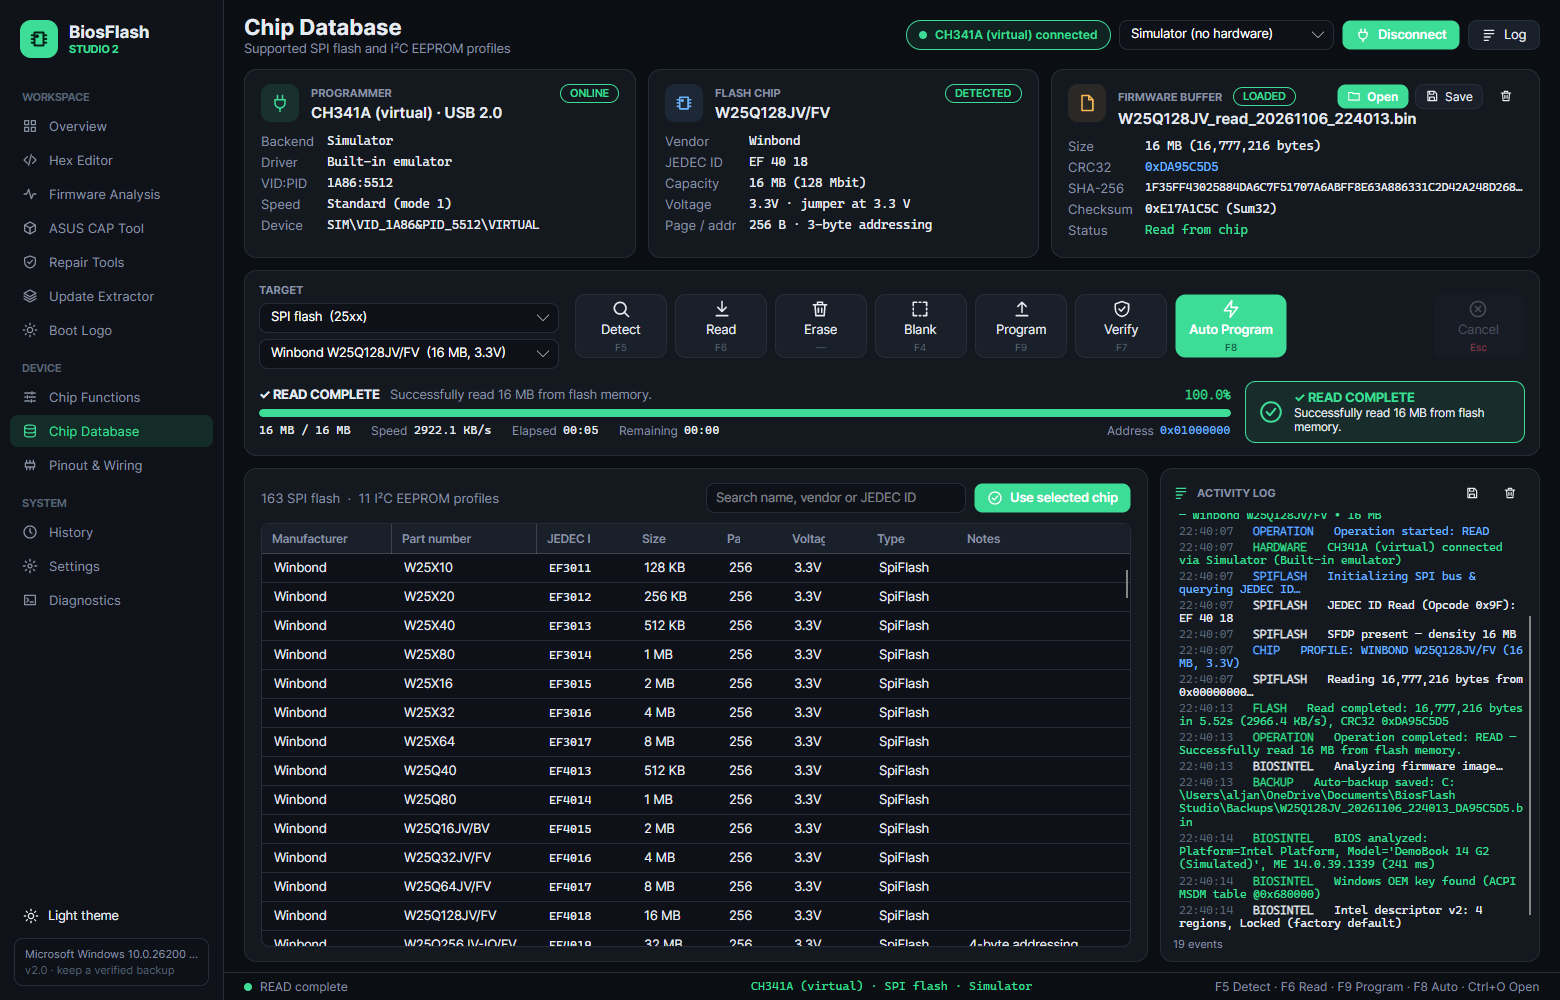
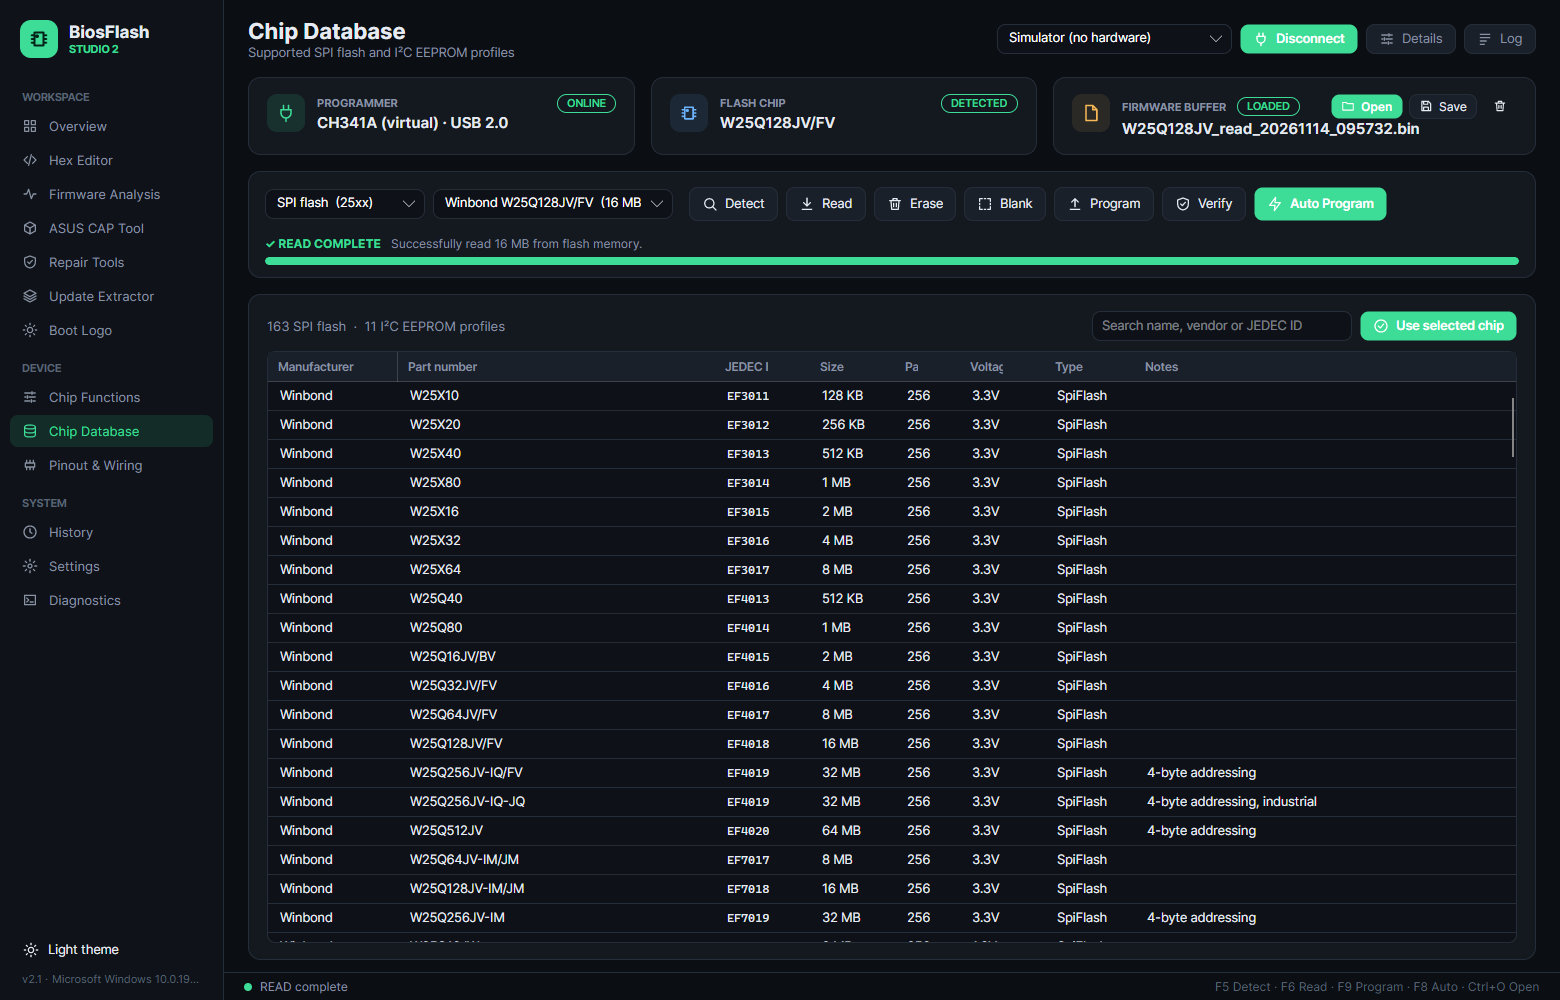
They're all taken in demo mode at 1560×1000, the same size as before. linux-debian.png and linux-diagnostics.png are still the old ones. They have to be taken on Linux, so they show the previous version of the app.
Removed: "Building from source", "Testing", "Project layout", and the .NET, Avalonia and self-test badges.
Moved, not deleted: those sections now live in docs/BUILDING.md. The README doesn't link to it.
Added: a download badge at the top that always points to the latest release.
Download & install: each system now has a direct download link for its v2.1.0 file.
Programmer dashboard text: updated for the new layout (the Details button, the operation bar and the Log button).

diff --git a/README.md b/README.md
@@ -14,9 +14,10 @@
   <img alt="Windows" src="https://img.shields.io/badge/Windows-10%20%7C%2011-0078D4">
   <img alt="Debian / Ubuntu" src="https://img.shields.io/badge/Debian%20%7C%20Ubuntu-.deb-A81D33">
   <img alt="Fedora" src="https://img.shields.io/badge/Fedora%20%7C%20RHEL-.rpm-51A2DA">
-  <img alt=".NET 10" src="https://img.shields.io/badge/.NET-10-512BD4">
-  <img alt="Avalonia UI" src="https://img.shields.io/badge/UI-Avalonia%2011-8B44AC">
-  <img alt="Self-tests" src="https://img.shields.io/badge/self--tests-114%20passing-3DDC97">
+</p>
+
+<p align="center">
+  <a href="https://github.com/SpeedGamer21/biosflash-studio/releases/latest"><img alt="Download the latest release" src="https://img.shields.io/github/v/release/SpeedGamer21/biosflash-studio?label=download&color=3DDC97"></a>
 </p>
 
 <p align="center">
@@ -35,9 +36,6 @@
   - [History & settings](#11-history--settings) · [Diagnostics & Linux](#12-diagnostics--linux) · [Light & dark themes](#13-light--dark-themes)
 - [Download & install](#download--install)
 - [Connecting a CH341A](#connecting-a-ch341a)
-- [Building from source](#building-from-source)
-- [Testing](#testing)
-- [Project layout](#project-layout)
 - [Safety](#safety)
 - [License](#license)
 
@@ -60,11 +58,11 @@
 
 <img src="docs/screenshots/overview.png" alt="Programmer dashboard" width="900">
 
-- **Status cards** for the programmer (backend, driver, speed), the detected chip (vendor, JEDEC ID, capacity, voltage, addressing) and the firmware buffer (size, CRC32, SHA-256, checksum).
-- **Operation deck:** Detect, Read, Erase, Blank check, Program, Verify and **Auto Program** (unprotect → erase → blank → program → verify). Each has a keyboard shortcut.
+- **Status cards** for the programmer, the detected chip and the firmware buffer. They stay compact; the **Details** button expands them to show the backend, driver and speed, the chip's vendor, JEDEC ID, capacity, voltage and addressing, and the buffer's size, CRC32, SHA-256 and checksum.
+- **Operation bar:** Detect, Read, Erase, Blank check, Program, Verify and **Auto Program** (unprotect → erase → blank → program → verify). Each has a keyboard shortcut.
 - **Live progress** with speed, elapsed and remaining time, current address, and a colour-coded result badge.
 - **Overview page:** platform, ME version, BIOS vendor and version, descriptor status, GbE MAC, the **DMI table** (brand, model, serial, UUID, SKU, board), the **Windows OEM key** with copy/export, and a flash-layout bar.
-- **Activity log** with timestamps and colour levels, saved per session. It can be collapsed.
+- **Activity log** with timestamps and colour levels, saved per session. Open or close it with the **Log** button.
 
 ### 2. Hex editor
 
@@ -216,16 +214,17 @@ Graphite/mint dark theme and paper/emerald light theme, switchable from the side
 
 ## Download & install
 
-Get the file for your system from the **[Releases](../../releases)** page.
+**Latest version: 2.1.0.** Click your system to download, or browse every version on the **[Releases](https://github.com/SpeedGamer21/biosflash-studio/releases)** page.
 
-| System | File | Install |
+| System | Download | Install |
 |---|---|---|
-| **Windows 10/11 (x64)** | `BiosFlashStudio-2.1.0-win-x64-setup.exe` | Run the installer. You can install for the current user (no admin) or for all users. It adds a Start-menu entry and a *demo mode* shortcut |
-| **Debian / Ubuntu / Mint (x64)** | `biosflash-studio_2.1.0_amd64.deb` | `sudo apt install ./biosflash-studio_2.1.0_amd64.deb` |
-| **Debian / Raspberry Pi OS (ARM64)** | `biosflash-studio_2.1.0_arm64.deb` | `sudo apt install ./biosflash-studio_2.1.0_arm64.deb` |
-| **Fedora / RHEL / Rocky (x64)** | `biosflash-studio-2.1.0-1.x86_64.rpm` | `sudo dnf install ./biosflash-studio-2.1.0-1.x86_64.rpm` |
-| **Fedora (ARM64)** | `biosflash-studio-2.1.0-1.aarch64.rpm` | `sudo dnf install ./biosflash-studio-2.1.0-1.aarch64.rpm` |
-| **Any Linux (portable)** | `biosflash-studio-2.1.0-linux-x64.tar.gz` (or `-arm64`) | Unpack, then run `sudo sh install.sh`, or just `./BiosFlashStudio` |
+| **Windows 10/11 (x64)** | [⬇ BiosFlashStudio-2.1.0-win-x64-setup.exe](https://github.com/SpeedGamer21/biosflash-studio/releases/download/v2.1.0/BiosFlashStudio-2.1.0-win-x64-setup.exe) | Run the installer. You can install for the current user (no admin) or for all users. It adds a Start-menu entry and a *demo mode* shortcut |
+| **Debian / Ubuntu / Mint (x64)** | [⬇ biosflash-studio_2.1.0_amd64.deb](https://github.com/SpeedGamer21/biosflash-studio/releases/download/v2.1.0/biosflash-studio_2.1.0_amd64.deb) | `sudo apt install ./biosflash-studio_2.1.0_amd64.deb` |
+| **Debian / Raspberry Pi OS (ARM64)** | [⬇ biosflash-studio_2.1.0_arm64.deb](https://github.com/SpeedGamer21/biosflash-studio/releases/download/v2.1.0/biosflash-studio_2.1.0_arm64.deb) | `sudo apt install ./biosflash-studio_2.1.0_arm64.deb` |
+| **Fedora / RHEL / Rocky (x64)** | [⬇ biosflash-studio-2.1.0-1.x86_64.rpm](https://github.com/SpeedGamer21/biosflash-studio/releases/download/v2.1.0/biosflash-studio-2.1.0-1.x86_64.rpm) | `sudo dnf install ./biosflash-studio-2.1.0-1.x86_64.rpm` |
+| **Fedora (ARM64)** | [⬇ biosflash-studio-2.1.0-1.aarch64.rpm](https://github.com/SpeedGamer21/biosflash-studio/releases/download/v2.1.0/biosflash-studio-2.1.0-1.aarch64.rpm) | `sudo dnf install ./biosflash-studio-2.1.0-1.aarch64.rpm` |
+| **Any Linux x64 (portable)** | [⬇ biosflash-studio-2.1.0-linux-x64.tar.gz](https://github.com/SpeedGamer21/biosflash-studio/releases/download/v2.1.0/biosflash-studio-2.1.0-linux-x64.tar.gz) | Unpack, then run `sudo sh install.sh`, or just `./BiosFlashStudio` |
+| **Any Linux ARM64 (portable)** | [⬇ biosflash-studio-2.1.0-linux-arm64.tar.gz](https://github.com/SpeedGamer21/biosflash-studio/releases/download/v2.1.0/biosflash-studio-2.1.0-linux-arm64.tar.gz) | Unpack, then run `sudo sh install.sh`, or just `./BiosFlashStudio` |
 
 The Linux packages pull in `libusb` automatically. They also install a udev rule so the programmer works **without root**: re-plug the CH341A once after installing. More details are in [packaging/linux/README-LINUX.md](packaging/linux/README-LINUX.md).
 
@@ -239,82 +238,6 @@ To look around without a programmer, start **BiosFlash Studio (demo mode)** from
    - **Linux:** no driver is needed. libusb and the udev rule come with the package; *Diagnostics → Install udev rule* also works.
 3. **Clip on:** pin 1 goes to the red wire. For laptops, unplug AC, remove the battery and the CMOS cell.
 4. **Detect, then Read:** press **F5**, then **F6**. Every read is saved automatically to `Documents/BiosFlash Studio/Backups`.
-
-## Building from source
-
-You need the [.NET 10 SDK](https://dot.net).
-
-```sh
-# run from source
-dotnet run --project src/BiosFlashStudio.csproj               # add: -- --demo
-```
-
-**Windows**
-
-```bat
-build.bat              :: framework-dependent EXE        -> dist\
-build.bat portable     :: self-contained single EXE      -> dist\portable\
-build.bat installer    :: setup.exe (Inno Setup 6)        -> dist\installers\
-build.bat linux        :: cross-builds linux-x64/arm64 + .tar.gz
-```
-
-**Linux** (Debian/Ubuntu or Fedora)
-
-```sh
-./build.sh             # .tar.gz + .deb (dpkg-deb) + .rpm (rpmbuild) for this machine
-./build.sh arm64       # cross-build for ARM64
-# package binaries already cross-built on Windows, no .NET SDK needed:
-./packaging/linux/build-packages.sh x64 --prebuilt
-```
-
-On Fedora, install `rpm-build` to get `.rpm` output. On Debian/Ubuntu, `dpkg-deb` is already installed and `rpmbuild` comes with the `rpm` package.
-
-**Useful command-line options:**
-- `--demo`: simulator plus demo firmware.
-- `--page=N`: open a page directly.
-- `--light`: start in the light theme.
-- `--stock=<file>`: load a stock image into Repair Tools.
-- `--extract=<file>`: open a vendor update in the Update Extractor.
-- `--diag`: open Diagnostics and run the driver check.
-- A file path opens that file (`.cap` files open in the CAP tool).
-
-## Testing
-
-A headless self-test exercises everything in software. It runs these against simulated chips and a packet-level CH341A emulator:
-- the analyzer
-- the SPI and I²C drivers
-- the raw USB protocol used by the WinUSB and libusb backends
-- the capsule parser, the repair engine and the update extractor
-- the boot logo engine (UEFI parser, LZMA and EFI/Tiano rebuild, conversions)
-
-```sh
-run-tests.bat           # or ./run-tests.sh   — full run with live progress bars (91 tests)
-run-tests.bat --quick   # skips the 32 MB chip (~1.5 min)
-run-tests.bat --repair  # repair tools, update extractor and boot logo (~3 s)
-run-tests.bat --logo    # boot logo engine only (~2 s)
-```
-
-Progress is also written to `tests/SelfTest/bin/Release/net10.0/selftest.log`.
-
-> **Note:** all automated tests run against simulated hardware and synthetic firmware. Please report results with real programmers, boards and BIOS updates.
-
-## Project layout
-
-```
-src/
-  Hardware/    CH341 backends: WCH DLL, shared raw USB protocol, WinUSB + libusb transports, simulator, USB scanner
-  Flash/       chip database, SPI NOR driver, I²C EEPROM driver
-  Analysis/    firmware analyzer, UEFI volume parser, boot logo engine, capsule parser, repair engine, update extractor, demo image
-  Controls/    hex editor, region bar, usage map, pinout drawings
-  Ui/          theme palette, stroke icons, dialogs
-  Platform/    OS helpers (udev rule install, folders)
-  *.axaml      Avalonia UI
-tests/SelfTest/  headless self-test
-packaging/
-  windows/     Inno Setup script
-  linux/       .deb/.rpm/.tar.gz builder, install.sh, udev rule, desktop entry, icon
-docs/          logo and screenshots
-```
 
 ## Safety
 

diff --git a/docs/BUILDING.md b/docs/BUILDING.md
@@ -1,0 +1,80 @@
+# Building BiosFlash Studio
+
+Developer notes: building from source, running the self-tests and the project layout.
+
+## Building from source
+
+You need the [.NET 10 SDK](https://dot.net).
+
+```sh
+# run from source
+dotnet run --project src/BiosFlashStudio.csproj               # add: -- --demo
+```
+
+**Windows**
+
+```bat
+build.bat              :: framework-dependent EXE        -> dist\
+build.bat portable     :: self-contained single EXE      -> dist\portable\
+build.bat installer    :: setup.exe (Inno Setup 6)        -> dist\installers\
+build.bat linux        :: cross-builds linux-x64/arm64 + .tar.gz
+```
+
+**Linux** (Debian/Ubuntu or Fedora)
+
+```sh
+./build.sh             # .tar.gz + .deb (dpkg-deb) + .rpm (rpmbuild) for this machine
+./build.sh arm64       # cross-build for ARM64
+# package binaries already cross-built on Windows, no .NET SDK needed:
+./packaging/linux/build-packages.sh x64 --prebuilt
+```
+
+On Fedora, install `rpm-build` to get `.rpm` output. On Debian/Ubuntu, `dpkg-deb` is already installed and `rpmbuild` comes with the `rpm` package.
+
+**Useful command-line options:**
+- `--demo`: simulator plus demo firmware.
+- `--page=N`: open a page directly.
+- `--light`: start in the light theme.
+- `--stock=<file>`: load a stock image into Repair Tools.
+- `--extract=<file>`: open a vendor update in the Update Extractor.
+- `--diag`: open Diagnostics and run the driver check.
+- A file path opens that file (`.cap` files open in the CAP tool).
+
+## Testing
+
+A headless self-test exercises everything in software. It runs these against simulated chips and a packet-level CH341A emulator:
+- the analyzer
+- the SPI and I²C drivers
+- the raw USB protocol used by the WinUSB and libusb backends
+- the capsule parser, the repair engine and the update extractor
+- the boot logo engine (UEFI parser, LZMA and EFI/Tiano rebuild, conversions)
+
+```sh
+run-tests.bat           # or ./run-tests.sh   — full run with live progress bars (91 tests)
+run-tests.bat --quick   # skips the 32 MB chip (~1.5 min)
+run-tests.bat --repair  # repair tools, update extractor and boot logo (~3 s)
+run-tests.bat --logo    # boot logo engine only (~2 s)
+```
+
+Progress is also written to `tests/SelfTest/bin/Release/net10.0/selftest.log`.
+
+> **Note:** all automated tests run against simulated hardware and synthetic firmware. Please report results with real programmers, boards and BIOS updates.
+
+## Project layout
+
+```
+src/
+  Hardware/    CH341 backends: WCH DLL, shared raw USB protocol, WinUSB + libusb transports, simulator, USB scanner
+  Flash/       chip database, SPI NOR driver, I²C EEPROM driver
+  Analysis/    firmware analyzer, UEFI volume parser, boot logo engine, capsule parser, repair engine, update extractor, demo image
+  Controls/    hex editor, region bar, usage map, pinout drawings
+  Ui/          theme palette, stroke icons, dialogs
+  Platform/    OS helpers (udev rule install, folders)
+  *.axaml      Avalonia UI
+tests/SelfTest/  headless self-test
+packaging/
+  windows/     Inno Setup script
+  linux/       .deb/.rpm/.tar.gz builder, install.sh, udev rule, desktop entry, icon
+docs/          logo and screenshots
+```
+
